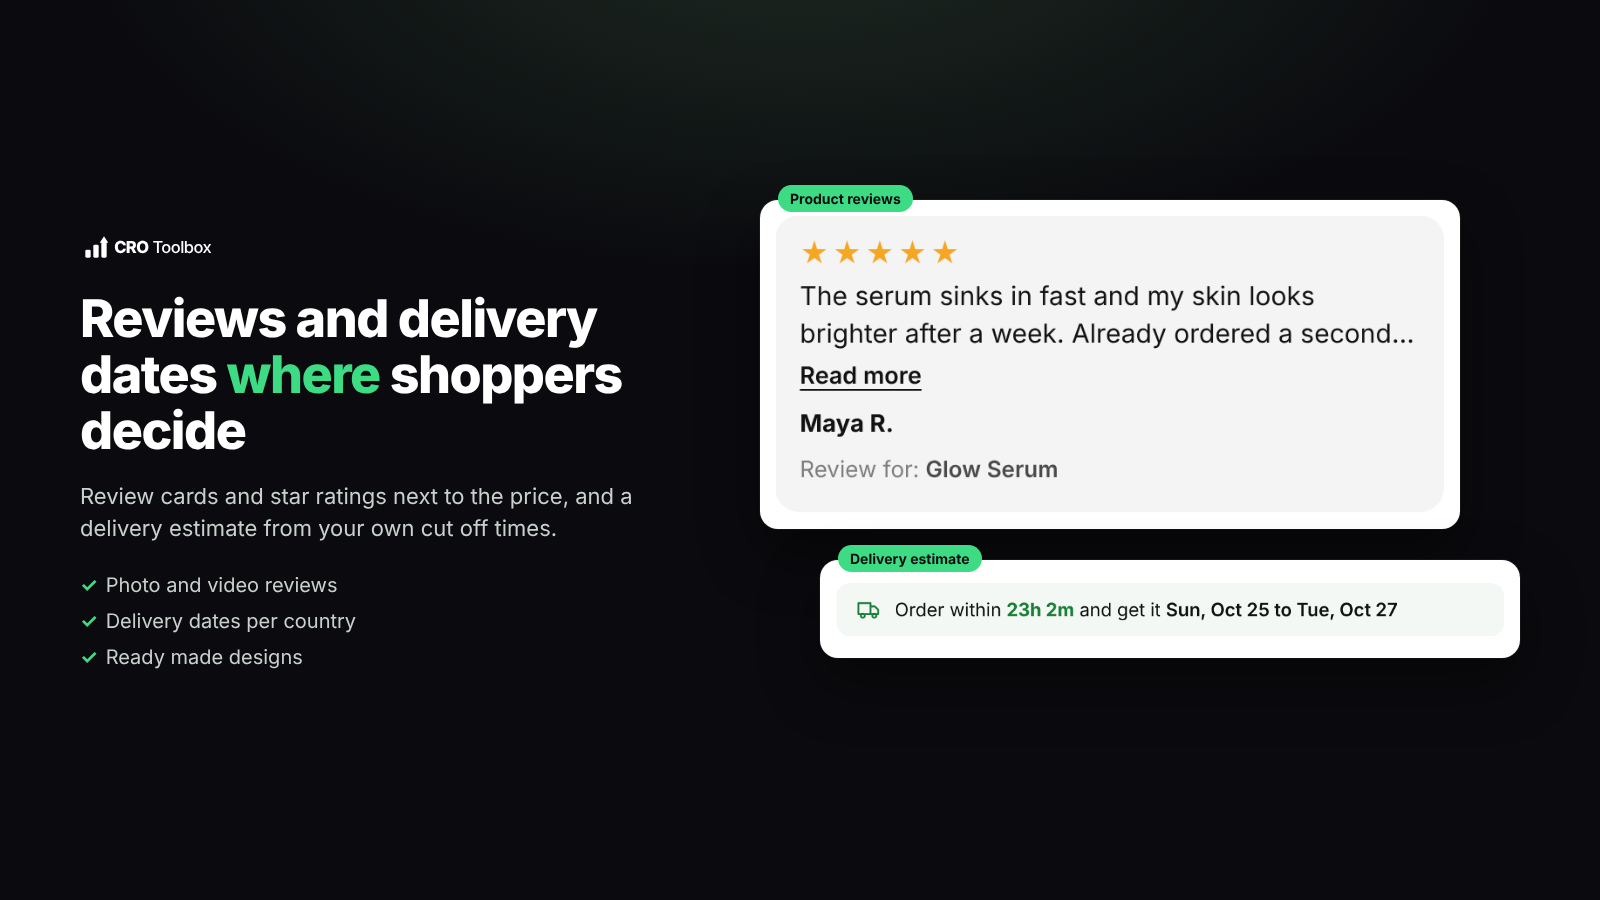
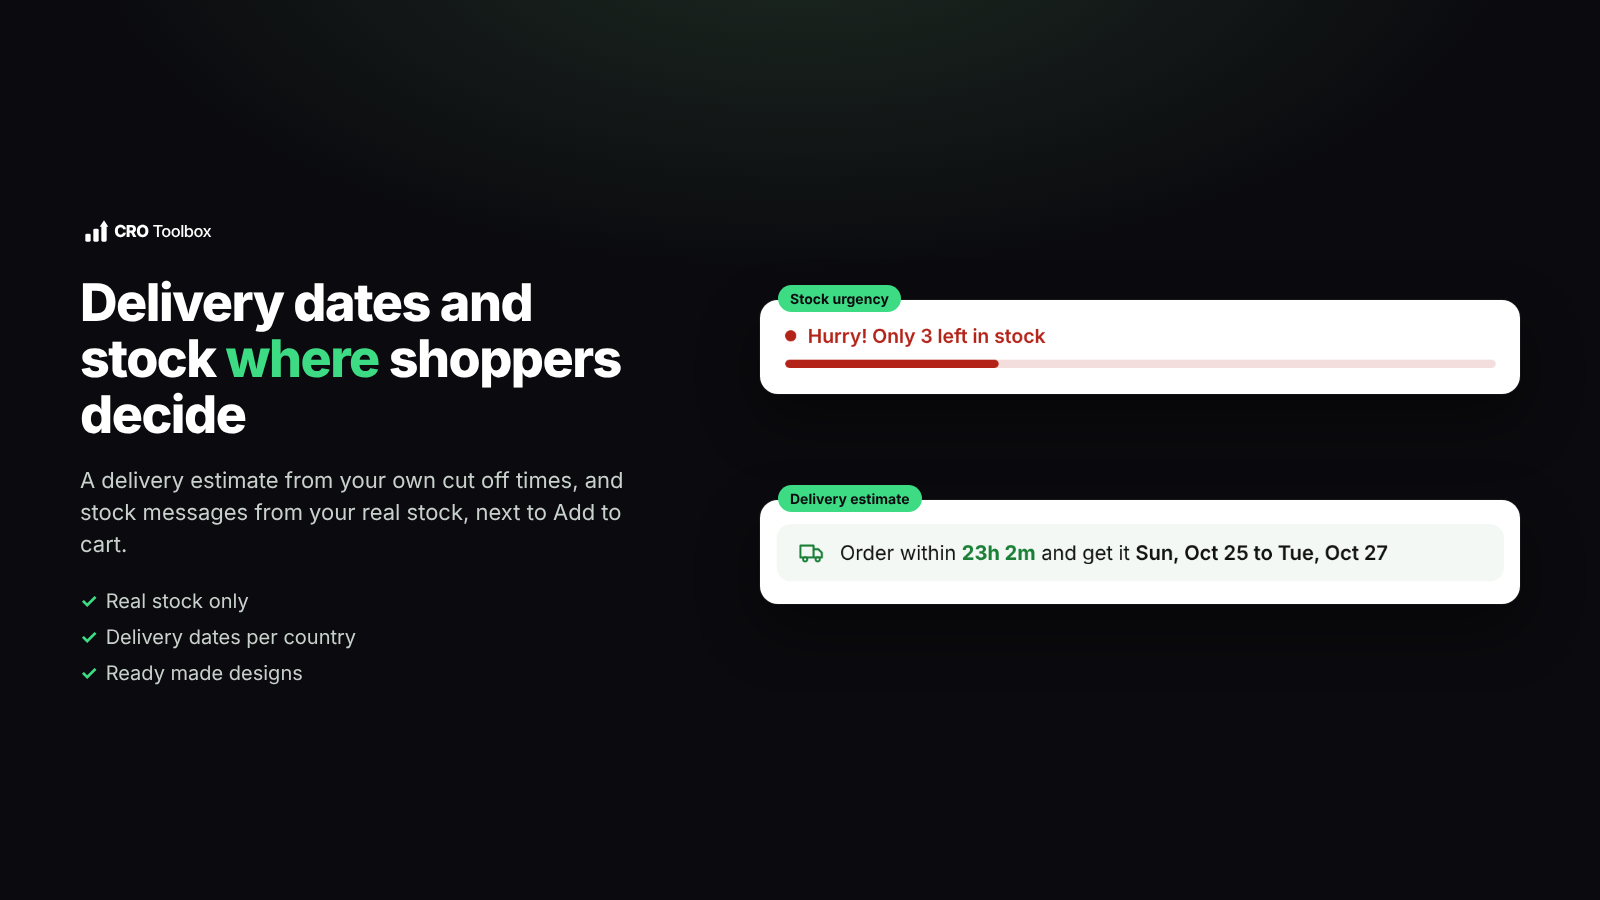
Docs: screenshot 5 shows stock and delivery instead of a review (no reviews in listing images)
Claude-Session: https://claude.ai/code/session_01Ayra3thzpB7x3YYm7G1avg

diff --git a/branding/listing/templates/screenshot-5-product-page.html b/branding/listing/templates/screenshot-5-product-page.html
@@ -4,15 +4,15 @@
 <body>
   <div class="side">
     <img class="logo" src="../logo.svg" alt="">
-    <h1>Reviews and delivery dates <span>where</span> shoppers decide</h1>
-    <p>Review cards and star ratings next to the price, and a delivery estimate from your own cut off times.</p>
+    <h1>Delivery dates and stock <span>where</span> shoppers decide</h1>
+    <p>A delivery estimate from your own cut off times, and stock messages from your real stock, next to Add to cart.</p>
     <div class="checks">
-      <div><b>✓</b>Photo and video reviews</div>
+      <div><b>✓</b>Real stock only</div>
       <div><b>✓</b>Delivery dates per country</div>
       <div><b>✓</b>Ready made designs</div>
     </div>
   </div>
 
-  <div class="card" style="left:760px; top:200px; width:700px"><span class="tag">Product reviews</span><img src="../widgets/review.png"></div>
-  <div class="card thin" style="left:820px; top:560px; width:700px"><span class="tag">Delivery estimate</span><img src="../widgets/delivery.png"></div>
+  <div class="card thin" style="left:760px; top:300px; width:760px"><span class="tag">Stock urgency</span><img src="../widgets/stock.png"></div>
+  <div class="card thin" style="left:760px; top:500px; width:760px"><span class="tag">Delivery estimate</span><img src="../widgets/delivery.png"></div>
 </body></html>

diff --git a/branding/listing/README.md b/branding/listing/README.md
@@ -67,6 +67,6 @@ script and pass it as `CHROME`).
 2. `2-upsells.png`: "Quantity breaks with a saving next to Add to cart"
 3. `3-cart.png`: "Free shipping bar and cross sell offers in the theme's cart drawer"
 4. `4-after-purchase.png`: "One click offer after payment and a next order code on the thank you page"
-5. `5-product-page.png`: "A review card and a delivery estimate on a product page"
+5. `5-product-page.png`: "A stock message and a delivery estimate on a product page"
 6. `6-sections.png`: "A benefits row section in a store theme"
 - Uploading is done by Omar in the listing editor (the browser pane cannot upload files).
